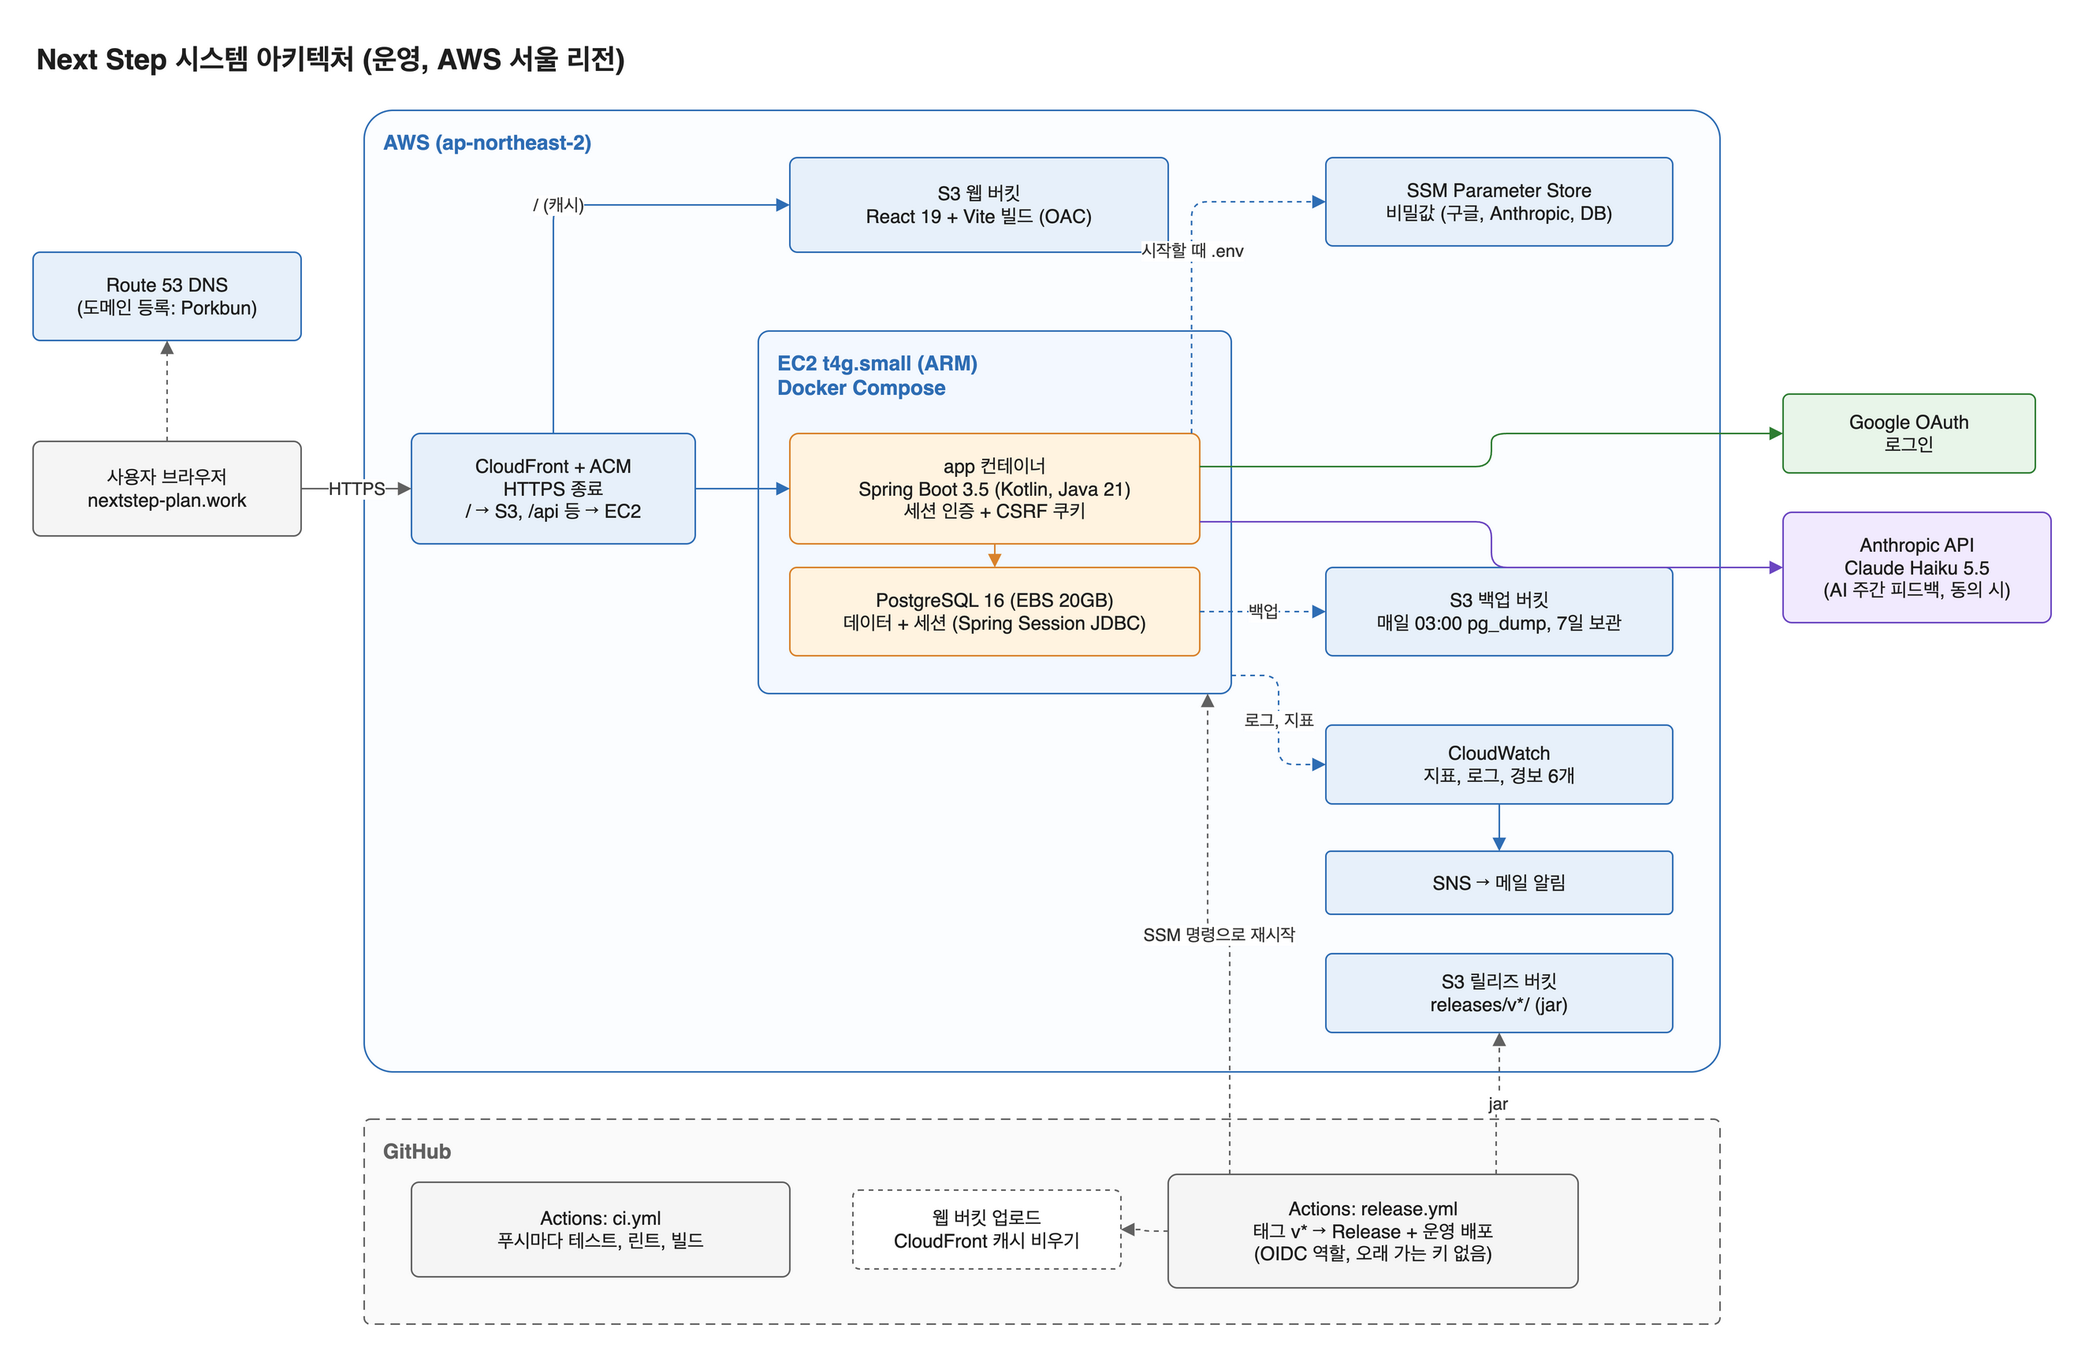
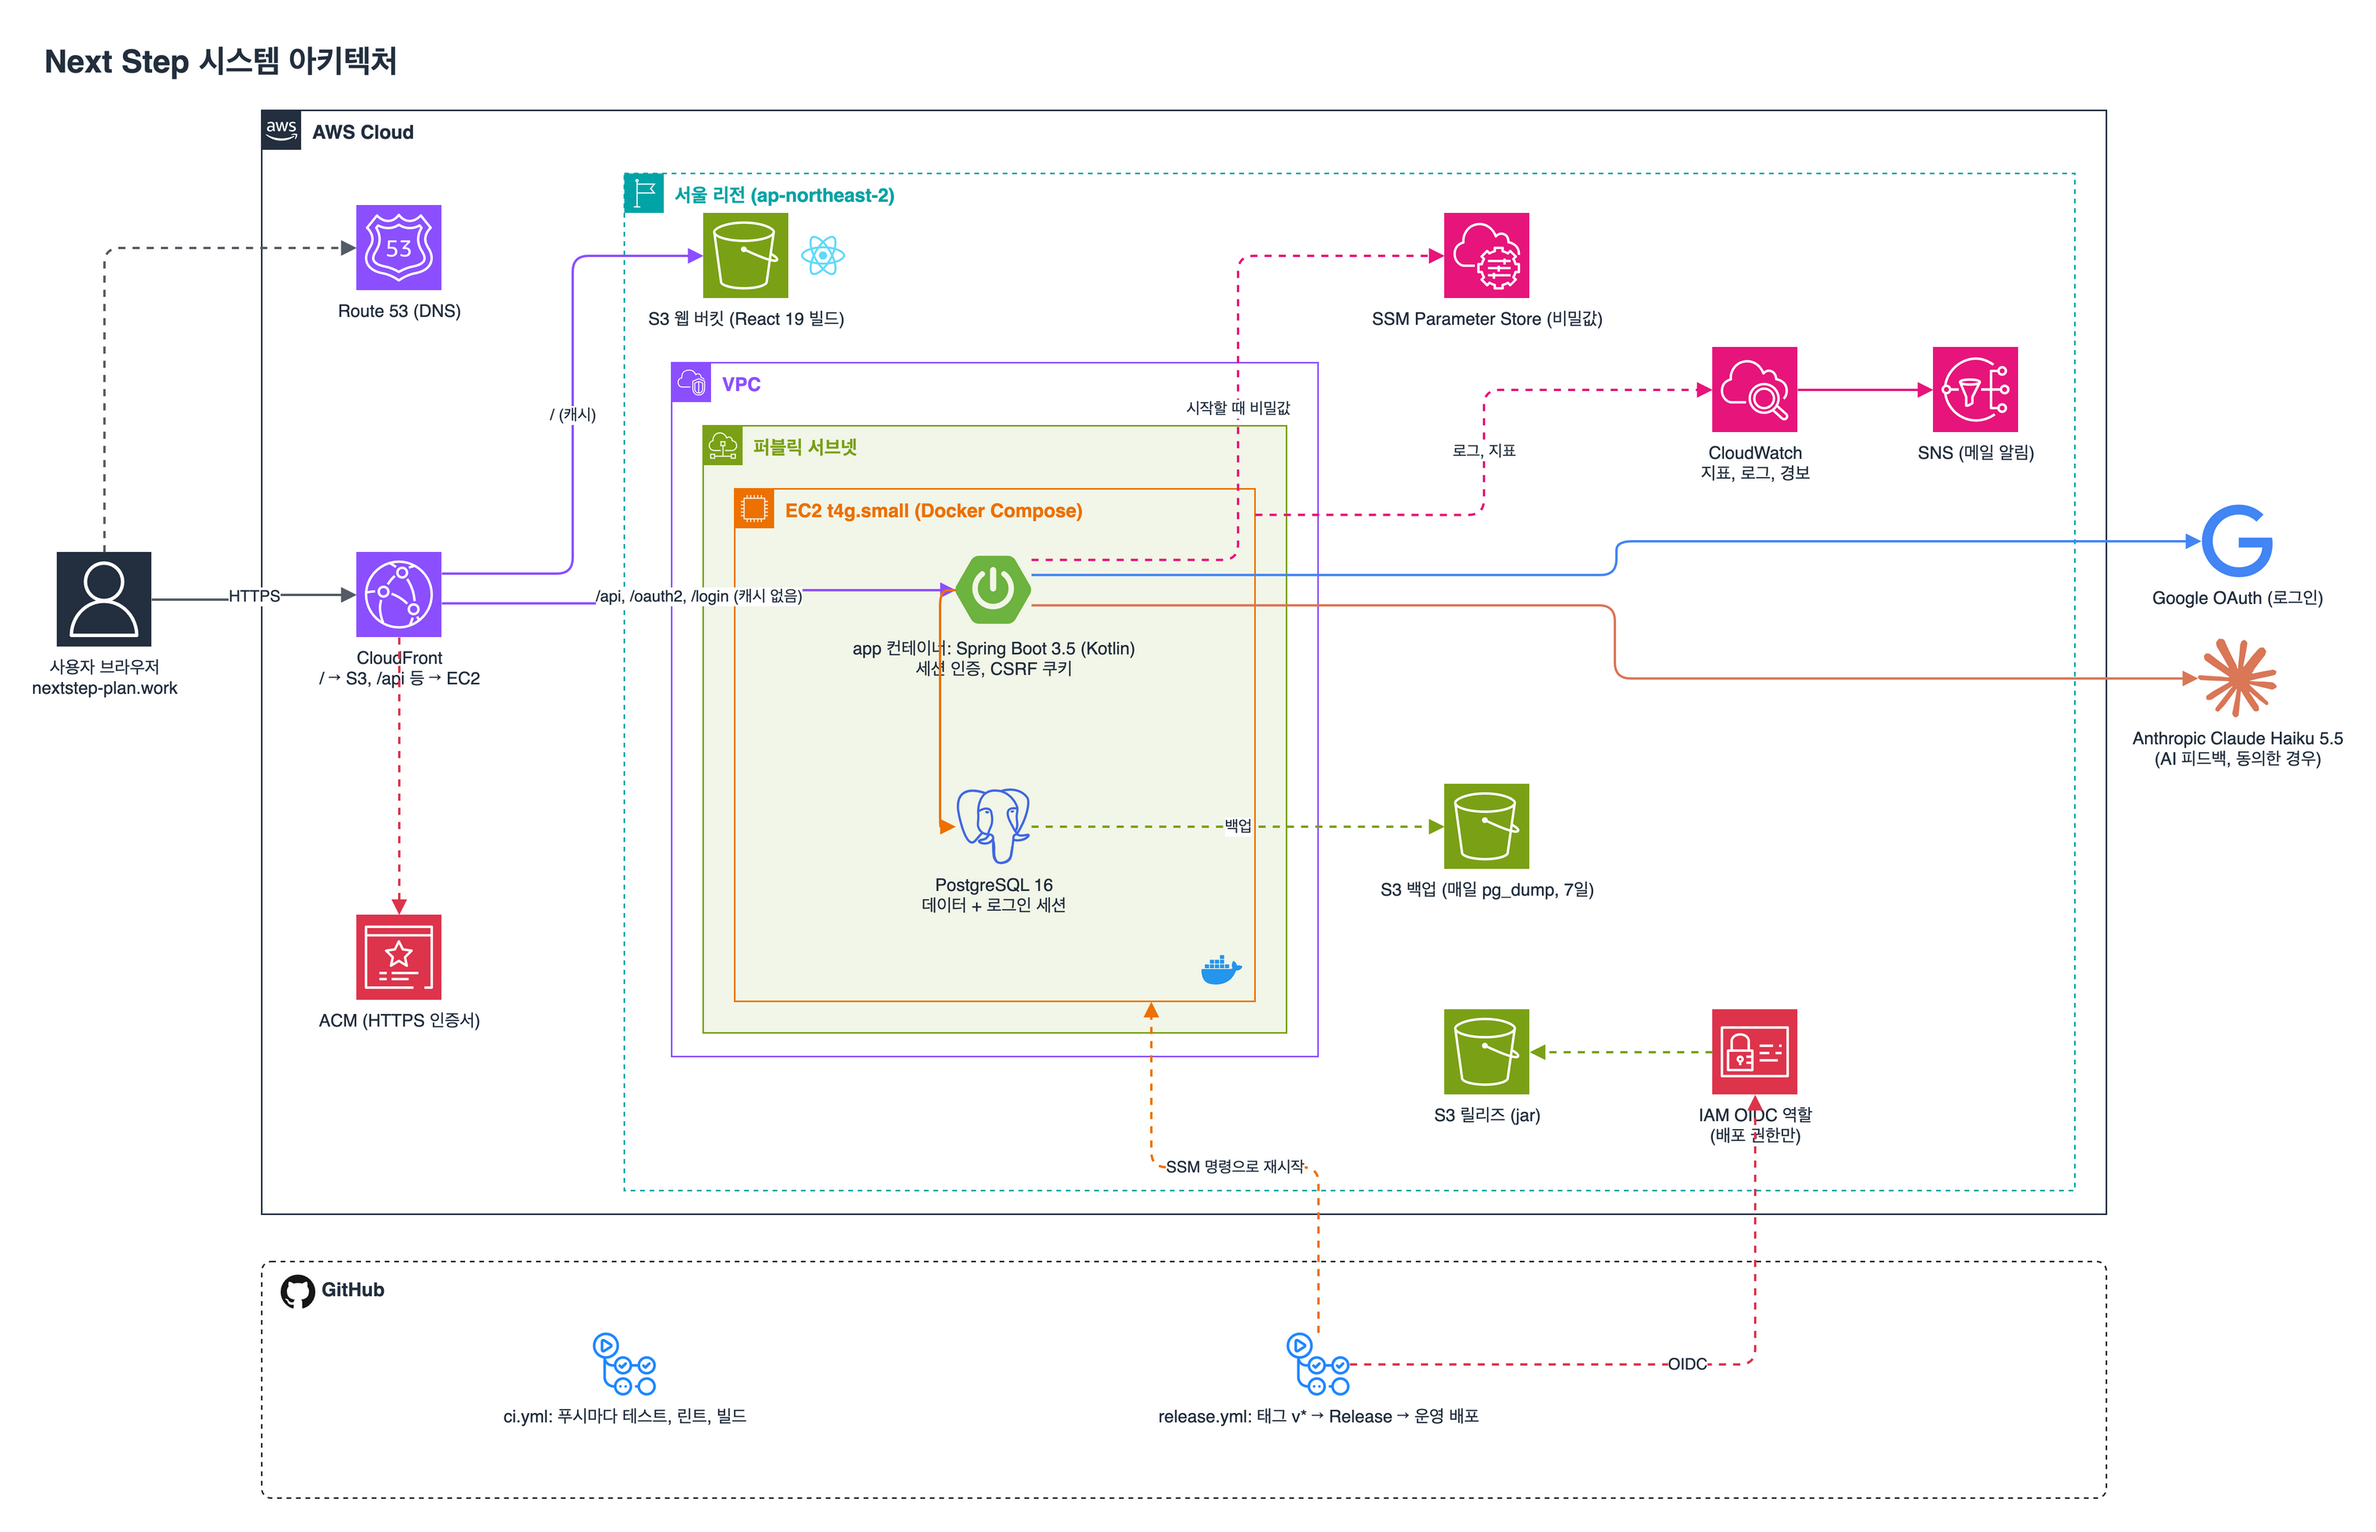
[문서] 아키텍처 그림을 AWS와 서비스 공식 아이콘, VPC 구성으로 다시 그리기

diff --git a/README.md b/README.md
@@ -54,6 +54,7 @@
 <img src="docs/images/architecture.png" alt="시스템 아키텍처. 사용자가 CloudFront를 거쳐 S3 웹과 EC2의 Spring Boot, PostgreSQL에 닿고, EC2는 Google OAuth와 Anthropic, SSM, 백업 S3, CloudWatch를 쓴다. GitHub Actions가 OIDC로 배포한다">
 
 원본: [docs/diagrams/architecture.drawio](docs/diagrams/architecture.drawio) (draw.io에서 열기)
+아이콘: AWS Architecture Icons(draw.io 기본 제공), [Simple Icons](https://simpleicons.org)(CC0). 각 로고의 상표는 해당 회사에 있습니다.
 
 - **도메인 하나로 묶기:** CloudFront가 `/`는 S3(React 빌드)로, `/api`, `/oauth2`, `/login`, `/logout`은 EC2로 보냅니다. 같은 출처라 세션 쿠키와 CSRF, CORS 문제가 없습니다.
 - **서버 한 대:** EC2 t4g.small 한 대에 Docker Compose로 Spring Boot와 PostgreSQL을 둡니다. 매일 03:00 `pg_dump`를 S3에 7일 보관하고, 복구 연습까지 했습니다.
